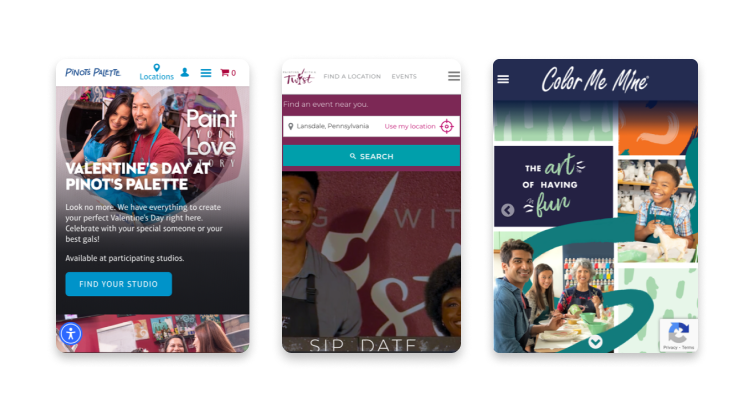
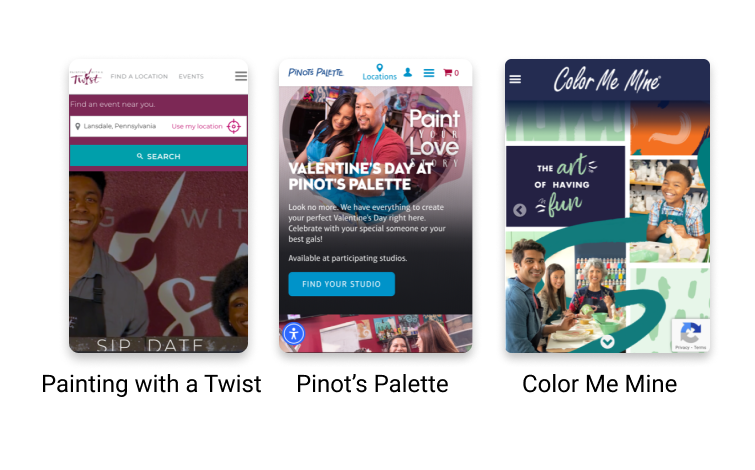
added image azn comp analysis

diff --git a/atoz.html b/atoz.html
@@ -105,10 +105,10 @@
                                <!--Competitive Analysis-->
                                <div class="row" style="margin-top:60px">
                                 <h4><b>Competitive Analysis</b></h4>
-                                <div class="col s12 l7" style="margin-top:60px">
-                                    <img class="responsive-img" src="images/candc_companalysis.png">
+                                <div class="col s12 l12" style="margin-top:60px">
+                                    <img class="responsive-img" src="images/azn_ca.png">
                                 </div>
-                                <div class="col s12 l5">   
+                                <div class="row">   
                                     <p class="flow-text grey-text text-darken-2">
                                         Although I have researched two well-established Paint and Sip franchises and Color Me Mine, a different art class franchise, none of them offered a dedicated app, so I focused on their mobile-optimized websites.
                                     </p>

diff --git a/index.html b/index.html
@@ -62,8 +62,8 @@
             </p>
             <break></break>
             <div class="row">
-                <a class="waves-effect waves-light btn indigo accent-3" href="./documents/ayamazaki_resume.pdf"><i
-                    class="material-icons left">file_download</i>Download my resume</a>
+                <a class="waves-effect waves-light btn-large indigo accent-3" href="https://docs.google.com/document/d/e/2PACX-1vR1HhVdq3S1kag76deJpcuX4OOZ6JqOtyK8ltxSR7QSU-LRfHjigXR1kd2qt5aj1RGhiVwYohIykzeR/pub">
+                    <i class="material-icons left">work</i>View My Resumé</a>
             </div> 
             </div> 
             <break></break>
